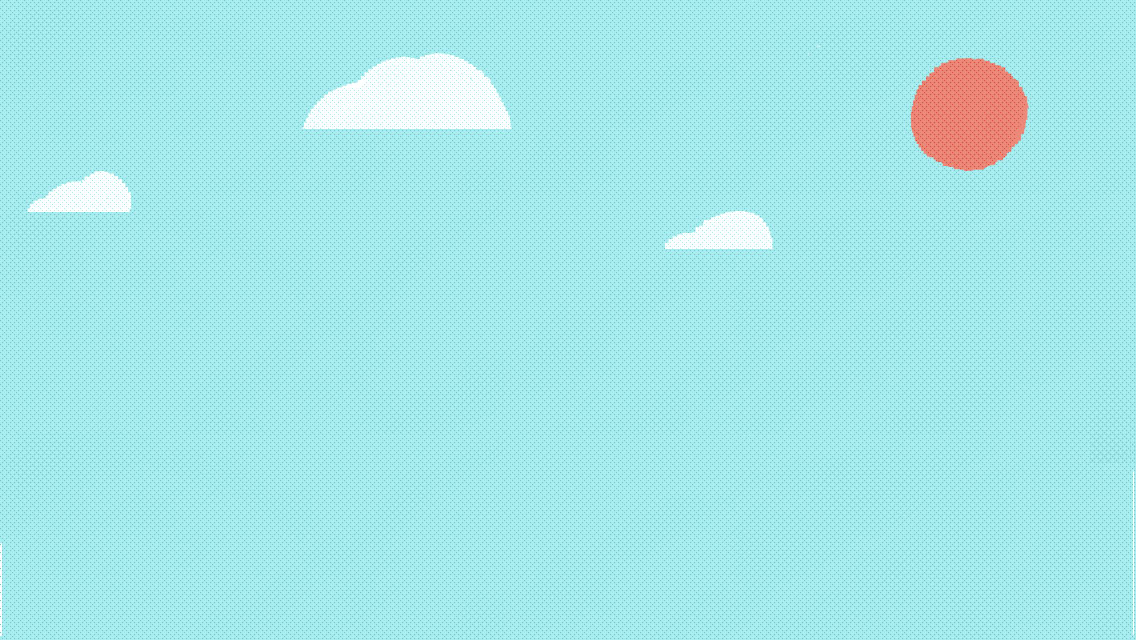
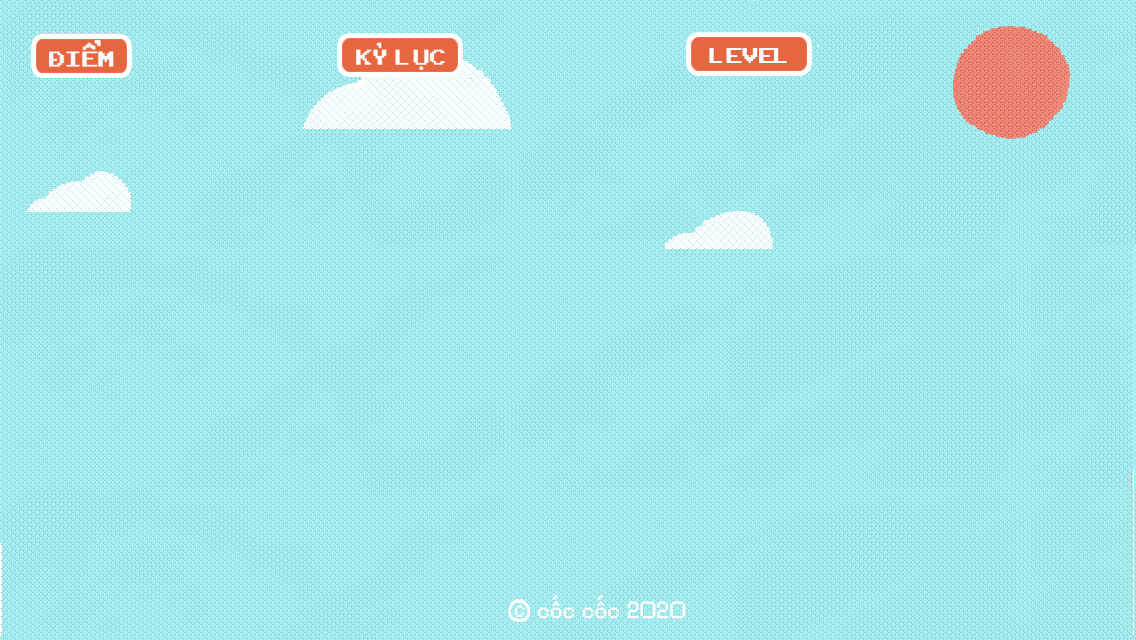
Update new version Coccoc

Changed region(s): [[0.0, 0.0, 1.0, 1.0]]

diff --git a/coccoc/js/main.min_87ead43b.js b/coccoc/js/main.min_87ead43b.js
@@ -1,0 +1,1 @@
+var __reflect=this&&this.__reflect||function(t,e,n){t.__class__=e,n?n.push(e):n=[e],t.__types__=t.__types__?n.concat(t.__types__):n},__extends=this&&this.__extends||function(t,e){function n(){this.constructor=t}for(var i in e)e.hasOwnProperty(i)&&(t[i]=e[i]);n.prototype=e.prototype,t.prototype=new n},__awaiter=this&&this.__awaiter||function(t,e,n,i){return new(n||(n=Promise))(function(s,o){function r(t){try{h(i.next(t))}catch(e){o(e)}}function a(t){try{h(i["throw"](t))}catch(e){o(e)}}function h(t){t.done?s(t.value):new n(function(e){e(t.value)}).then(r,a)}h((i=i.apply(t,e||[])).next())})},__generator=this&&this.__generator||function(t,e){function n(t){return function(e){return i([t,e])}}function i(n){if(s)throw new TypeError("Generator is already executing.");for(;h;)try{if(s=1,o&&(r=o[2&n[0]?"return":n[0]?"throw":"next"])&&!(r=r.call(o,n[1])).done)return r;switch(o=0,r&&(n=[0,r.value]),n[0]){case 0:case 1:r=n;break;case 4:return h.label++,{value:n[1],done:!1};case 5:h.label++,o=n[1],n=[0];continue;case 7:n=h.ops.pop(),h.trys.pop();continue;default:if(r=h.trys,!(r=r.length>0&&r[r.length-1])&&(6===n[0]||2===n[0])){h=0;continue}if(3===n[0]&&(!r||n[1]>r[0]&&n[1]<r[3])){h.label=n[1];break}if(6===n[0]&&h.label<r[1]){h.label=r[1],r=n;break}if(r&&h.label<r[2]){h.label=r[2],h.ops.push(n);break}r[2]&&h.ops.pop(),h.trys.pop();continue}n=e.call(t,h)}catch(i){n=[6,i],o=0}finally{s=r=0}if(5&n[0])throw n[1];return{value:n[0]?n[1]:void 0,done:!0}}var s,o,r,a,h={label:0,sent:function(){if(1&r[0])throw r[1];return r[1]},trys:[],ops:[]};return a={next:n(0),"throw":n(1),"return":n(2)},"function"==typeof Symbol&&(a[Symbol.iterator]=function(){return this}),a},LoadingUI=function(t){function e(){var e=t.call(this)||this;return e.createView(),e}return __extends(e,t),e.prototype.createView=function(){this.textField=new egret.TextField,this.addChild(this.textField),this.textField.y=300,this.textField.width=1136,this.textField.height=100,this.textField.textAlign="center"},e.prototype.onProgress=function(t,e){this.textField.text="Đang tải..."+t+"/"+e},e}(egret.Sprite);__reflect(LoadingUI.prototype,"LoadingUI",["RES.PromiseTaskReporter"]);var Main=function(t){function e(){var e=t.call(this)||this;return e.theObstaclesTimer=new egret.Timer(1e3),e.theObstacles=[],e.gameSpeed=5,e.jumpCount=0,e.sceneState=0,e.level=1,e._lastTime=egret.getTimer(),e.addEventListener(egret.Event.ADDED_TO_STAGE,e.onAddToStage,e),e}return __extends(e,t),e.prototype.onAddToStage=function(t){egret.lifecycle.addLifecycleListener(function(t){t.onUpdate=function(){}}),egret.lifecycle.onPause=function(){egret.ticker.pause()},egret.lifecycle.onResume=function(){egret.ticker.resume()},this.runGame()["catch"](function(t){console.log(t)})},e.prototype.runGame=function(){return __awaiter(this,void 0,void 0,function(){return __generator(this,function(t){switch(t.label){case 0:return[4,this.loadResource()];case 1:return t.sent(),this.gameTitle(),[2]}})})},e.prototype.loadResource=function(){return __awaiter(this,void 0,void 0,function(){var t,e;return __generator(this,function(n){switch(n.label){case 0:return n.trys.push([0,3,,4]),t=new LoadingUI,this.stage.addChild(t),[4,RES.loadConfig("resource/default.res.json","resource/")];case 1:return n.sent(),[4,RES.loadGroup("preload",0,t)];case 2:return n.sent(),this.stage.removeChild(t),[3,4];case 3:return e=n.sent(),console.error(e),[3,4];case 4:return[2]}})})},e.prototype.gameTitle=function(){var t=this,e=this.createBitmapByName("title_jpg");this.addChild(e),e.touchEnabled=!0,this.sceneState=0,this.kb=new KeyBoard,this.kb.addEventListener(KeyBoard.onkeydown,this.onkeydown,this),e.addEventListener(egret.TouchEvent.TOUCH_TAP,function(){t.removeChild(e);var n=document.documentElement,i=n.requestFullscreen||n.webkitRequestFullScreen||n.mozRequestFullscreen||n.msRequestFullscreen;i&&i.call(n),t.touchEnabled=!1,t.hiscore=200,parseInt(egret.localStorage.getItem("hiscore"))>200&&(t.hiscore=parseInt(egret.localStorage.getItem("hiscore"))),t.createGameScene()},this)},e.prototype.onkeydown=function(t){if(this.kb.isContain(t.data,KeyBoard.SPACE))switch(console.log("Space was hit"),this.sceneState){case 0:this.removeChildren(),this.hiscore=200,parseInt(egret.localStorage.getItem("hiscore"))>200&&(this.hiscore=parseInt(egret.localStorage.getItem("hiscore"))),this.createGameScene();break;case 1:this.touchHandler();break;case 2:this.replay()}},e.prototype.createGameScene=function(){this.gameSpeed=6,this.jumpCount=0,this.score=0,this.sceneState=1,this.level=1,this.bgSound=new SoundBase("stage1-4_mp3"),this.bgSound.setLoop(0),this.bgSound.play(),this.bgSound.setVolume(40);var t=this.createBitmapByName("bg_png");this.addChild(t),this.bg=new circus.BgMap,this.addChild(this.bg),this.bg.start();var e=this.createBitmapByName("logo_png");e.x=(this.stage.stageWidth-e.width)/2,e.y=600,this.addChild(e),this.lion=new circus.lion,this.addChild(this.lion),this.lion.x=200,this.lion.y=345,this.lion.run(),this.touchEnabled=!0,this.addEventListener(egret.TouchEvent.TOUCH_TAP,this.touchHandler,this),this.addEventListener(egret.Event.ENTER_FRAME,this.gameViewUpdate,this),this.scoreText=new egret.BitmapText,this.scoreText.font=RES.getRes("number_fnt"),this.addChild(this.scoreText),this.scoreText.x=145,this.levelText=new egret.BitmapText,this.levelText.font=RES.getRes("number_fnt"),this.addChild(this.levelText),this.levelText.x=820,this.hiscoreText=new egret.BitmapText,this.hiscoreText.font=RES.getRes("number_fnt"),this.addChild(this.hiscoreText),this.hiscoreText.x=475,this.levelText.y=this.scoreText.y=this.hiscoreText.y=50,this.hiscoreText.text=this.hiscore.toString()},e.prototype.createtheObstacle=function(){var t=new circus.obstacle;this.theObstacles.length>0?t.x=this.theObstacles[this.theObstacles.length-1].x+t.width+300*Math.random()+300+10*this.gameSpeed:t.x=this.stage.stageWidth+t.width+300*Math.random(),t.y=350,this.addChildAt(t,this.numChildren-1),this.theObstacles.push(t)},e.prototype.gameViewUpdate=function(){var t=0,e=0,n=egret.getTimer(),i=1e3/(n-this._lastTime);this._lastTime=n;var s=60/i;this.score+=1,this.score>9?this.scoreText.text=this.score.toString():this.scoreText.text="0"+this.score.toString(),this.score%199==0&&(this.gameSpeed<12&&(this.gameSpeed+=1),this.level+=1),this.level>9?this.levelText.text=this.level.toString():this.levelText.text="0"+this.level.toString();var o,r=this.theObstacles.length;for(t=0;r>t;t++)o=this.theObstacles[t],o.x<-o.width?(this.removeChild(o),this.theObstacles.splice(t,1),t--,r--):e+=1,1==this.lion.status()?o.x-=(this.gameSpeed+1)*s:o.x-=this.gameSpeed*s;4>e&&this.createtheObstacle(),this.score>=this.hiscore&&(this.hiscore=this.score,this.hiscoreText.text=this.hiscore.toString()),this.gameHitTest()},e.prototype.gameHitTest=function(){var t,e,n=this.theObstacles.length;for(t=0;n>t;t++)if(e=this.theObstacles[t],circus.GameUtil.hitTest(this.lion,e)){var i=new SoundBase("hit_mp3");i.play(),this.gameOver()}},e.prototype.gameOver=function(){var t=this;this.sceneState=3;var e,n,i=this.theObstacles.length;for(e=0;i>e;e++)n=this.theObstacles[e],n.stop();this.bg.pause(),this.lion.stop(),egret.localStorage.setItem("hiscore",this.hiscore.toString());var s=this.createBitmapByName("toang_png");this.addChild(s),s.x=(this.stage.stageWidth-s.width)/2,s.y=190,this.removeEventListener(egret.Event.ENTER_FRAME,this.gameViewUpdate,this),this.removeEventListener(egret.TouchEvent.TOUCH_TAP,this.touchHandler,this),egret.Tween.removeAllTweens(),this.bgSound.stop();var o=new SoundBase("failure_mp3");o.play(),this.touchEnabled=!1;var r=this.createBitmapByName("start_btn_png");egret.Tween.get(r).wait(3e3).call(function(){t.touchEnabled=!0,t.addChild(r),t.sceneState=2}),r.x=(this.stage.stageWidth-r.width)/2,r.y=370,this.addEventListener(egret.TouchEvent.TOUCH_TAP,this.replay,this)},e.prototype.replay=function(){this.removeEventListener(egret.TouchEvent.TOUCH_TAP,this.replay,this);for(var t;this.theObstacles.length>0;)t=this.theObstacles.pop(),this.removeChild(t);this.removeChildren(),this.createGameScene()},e.prototype.touchHandler=function(){this.lion.jump(220,this.gameSpeed)},e.prototype.createBitmapByName=function(t){var e=new egret.Bitmap,n=RES.getRes(t);return e.texture=n,e},e}(egret.DisplayObjectContainer);__reflect(Main.prototype,"Main");var DebugPlatform=function(){function t(){}return t.prototype.getUserInfo=function(){return __awaiter(this,void 0,void 0,function(){return __generator(this,function(t){return[2,{nickName:"username"}]})})},t.prototype.login=function(){return __awaiter(this,void 0,void 0,function(){return __generator(this,function(t){return[2]})})},t}();__reflect(DebugPlatform.prototype,"DebugPlatform",["Platform"]),window.platform||(window.platform=new DebugPlatform);var circus;!function(t){var e=function(e){function n(){var t=e.call(this)||this;return t.speed=5,t.addEventListener(egret.Event.ADDED_TO_STAGE,t.onAddToStage,t),t}return __extends(n,e),n.prototype.onAddToStage=function(e){this.removeEventListener(egret.Event.ADDED_TO_STAGE,this.onAddToStage,this),this.stageW=this.stage.stageWidth,this.stageH=this.stage.stageHeight;var n=RES.getRes("bg_run_png");this.textureWidth=n.textureWidth,this.rowCount=Math.ceil(this.stageW/this.textureWidth)+1,this.bmpArr=[];for(var i=0;i<this.rowCount;i++){var s=t.createBitmapByName("bg_run_png");s.x=this.textureWidth*i,console.log("Tọa độ X của đối tượng ",i," :",s.x),this.bmpArr.push(s),this.addChild(s)}},n.prototype.start=function(){this.removeEventListener(egret.Event.ENTER_FRAME,this.enterFrameHandler,this),this.addEventListener(egret.Event.ENTER_FRAME,this.enterFrameHandler,this)},n.prototype.enterFrameHandler=function(t){for(var e=0;e<this.rowCount;e++){var n=this.bmpArr[e];n.x-=this.speed,n.x<-n.width+n.anchorOffsetX*n.width&&(n.x+=2*n.width)}},n.prototype.pause=function(){this.removeEventListener(egret.Event.ENTER_FRAME,this.enterFrameHandler,this)},n}(egret.DisplayObjectContainer);t.BgMap=e,__reflect(e.prototype,"circus.BgMap")}(circus||(circus={}));var circus;!function(t){var e=function(t){function e(){var e=t.call(this)||this,n=RES.getRes("lion_mc_json"),i=RES.getRes("lion_tex_png");e._readyJump=!0;var s=new egret.MovieClipDataFactory(n,i);return e._lion=new egret.MovieClip(s.generateMovieClipData("circus")),e.addChild(e._lion),e}return __extends(e,t),e.prototype.run=function(){this._status=0,this._lion.gotoAndPlay("run",-1)},e.prototype.air_jump=function(){this._lion.gotoAndPlay("jump")},e.prototype.stop=function(){this._lion.gotoAndPlay("fail")},e.prototype.status=function(){return this._status},e.prototype.jump=function(t,e){var n=this,i=this.y;if(1==this._readyJump){this._readyJump=!1;var s=new SoundBase("jump_mp3");s.play(),egret.Tween.get(this).call(this.air_jump).to({y:i-t},200+t-10*e).call(function(){n._status=1}).wait(120).call(function(){n._status=0}).to({y:i},300+t-10*e).call(function(){n.run(),n._readyJump=!0})}},e}(egret.DisplayObjectContainer);t.lion=e,__reflect(e.prototype,"circus.lion")}(circus||(circus={}));var circus;!function(t){var e=function(t){function e(){var e=t.call(this)||this,n=RES.getRes("fire_mc_json"),i=RES.getRes("fire_tex_png"),s=Math.round(Math.random()),o=new egret.MovieClipDataFactory(n,i);return e._fire=new egret.MovieClip(o.generateMovieClipData("fire")),e.addChild(e._fire),0==s?(e._type=0,e._fire.gotoAndPlay("fire",-1)):(e._type=1,e._fire.gotoAndPlay("ninja",-1)),e}return __extends(e,t),e.prototype.stop=function(){this._fire.stop()},e.prototype.type=function(){return this._type},e}(egret.DisplayObjectContainer);t.obstacle=e,__reflect(e.prototype,"circus.obstacle")}(circus||(circus={}));var circus;!function(t){function e(t){var e=new egret.Bitmap,n=RES.getRes(t);return e.texture=n,e}var n=function(){function t(){}return t.hitTest=function(t,e){var n=t.getBounds(),i=e.getBounds();return n.x=t.x,n.y=t.y,i.x=e.x,n.height=n.height-20,i.y=e.y+i.height/2,i.width=i.width-30,n.intersects(i)?!0:!1},t}();t.GameUtil=n,__reflect(n.prototype,"circus.GameUtil"),t.createBitmapByName=e}(circus||(circus={}));var KeyBoard=function(t){function e(){var n=t.call(this)||this;return n.inputs=[],n.keyValue={27:e.Esc,112:e.F1,113:e.F2,114:e.F3,115:e.F4,116:e.F5,117:e.F6,118:e.F7,119:e.F8,120:e.F9,121:e.F10,122:e.F11,123:e.F12,42:e.PrintScreen,145:e.ScrollLock,19:e.PauseBreak,192:e.key_Points,49:e.key_1,50:e.key_2,51:e.key_3,52:e.key_4,53:e.key_5,54:e.key_6,55:e.key_7,56:e.key_8,57:e.key_9,48:e.key_0,189:e.key_Sub,187:e.key_Plus,8:e.Backspace,45:e.Insert,36:e.Home,33:e.PageUp,144:e.NumLock,111:e.Num_Slash,106:e.Num_Mul,109:e.Num_Sub,9:e.Tab,81:e.Q,87:e.W,69:e.E,82:e.R,84:e.T,89:e.Y,85:e.U,73:e.I,79:e.O,80:e.P,219:e.brace1,221:e.brace2,13:e.CnterEnter,46:e.Delete,35:e.End,34:e.PageDown,103:e.Num_7,104:e.Num_8,105:e.Num_9,107:e.Num_Plus,20:e.CapsLock,65:e.A,83:e.S,68:e.D,70:e.F,71:e.G,72:e.H,74:e.J,75:e.K,76:e.L,186:e.semicolon,222:e.quotes,220:e.bar,100:e.Num_4,101:e.Num_5,102:e.Num_6,16:e.key_Shift,90:e.Z,88:e.X,67:e.C,86:e.V,66:e.B,78:e.N,77:e.M,188:e.key_Semicolon,190:e.key_Dot,191:e.question,38:e.UpArrow,97:e.Num_1,98:e.Num_2,99:e.Num_3,17:e.left_Ctrl,91:e.Left_Win,18:e.key_Alt,32:e.SPACE,92:e.RIGHT_WIN,93:e.NoteSign,37:e.keyArrow,40:e.DownArrow,39:e.RightArrow,96:e.Num_0,110:e.Num_dot},n.init(),n}return __extends(e,t),e.prototype.init=function(){var t=this;document.onkeydown=function(n){var i=n||window.event||arguments.callee.caller.arguments[0];t.handlekeydown(i),t.inputs.length>0&&t.dispatchEventWith(e.onkeydown,!0,t.inputs,!0)},document.onkeyup=function(n){var i=n||window.event||arguments.callee.caller.arguments[0];t.handlekeyup(i),t.inputs.length>0&&t.dispatchEventWith(e.onkeyup,!0,t.inputs,!0)},document.onmousedown=function(e){t.inputs=[]}},e.prototype.handlekeydown=function(t){for(var e in this.keyValue)parseInt(e)==t.keyCode&&this.checkInput(this.keyValue[e])},e.prototype.handlekeyup=function(t){for(var e in this.keyValue)parseInt(e)==t.keyCode&&this.removeByKey(this.keyValue[e])},e.prototype.checkInput=function(t){for(var e=!1,n=0;n<this.inputs.length;n++)this.inputs[n]==t&&(e=!0);e||this.inputs.push(t)},e.prototype.removeByKey=function(t){for(var e=0;e<this.inputs.length;e++)this.inputs[e]==t&&this.inputs.splice(e,1)},e.prototype.isContain=function(t,e){for(var n=!1,i=0;i<t.length;i++)t[i]==e&&(n=!0);return n},e.onkeydown="KeyBoardonkeydown",e.onkeyup="KeyBoardonkeyup",e.NumLock="NumLock",e.Num_Slash="num_/",e.Num_Mul="num_*",e.Num_Sub="num_-",e.Num_7="num_7",e.Num_8="num_8",e.Num_9="num_9",e.Num_Plus="num_+",e.Num_4="num_4",e.Num_5="num_5",e.Num_6="num_6",e.Num_1="num_1",e.Num_2="num_2",e.Num_3="num_3",e.Num_Enter="num_Enter",e.Num_0="num_0",e.Num_dot="num_.",e.Esc="Esc",e.F1="F1",e.F2="F2",e.F3="F3",e.F4="F4",e.F5="F5",e.F6="F6",e.F7="F7",e.F8="F8",e.F9="F9",e.F10="F10",e.F11="F11",e.F12="F12",e.PrintScreen="PrintScreen",e.ScrollLock="ScrollLock",e.PauseBreak="PauseBreak",e.key_Points="`",e.key_1="1",e.key_2="2",e.key_3="3",e.key_4="4",e.key_5="5",e.key_6="6",e.key_7="7",e.key_8="8",e.key_9="9",e.key_0="0",e.key_Sub="-",e.key_Plus="=",e.Backspace="Backspace",e.Insert="Insert",e.Home="Home",e.PageUp="PageUp",e.Tab="Tab",e.Q="Q",e.W="W",e.E="E",e.R="R",e.T="T",e.Y="Y",e.U="U",e.I="I",e.O="O",e.P="P",e.brace1="[",e.brace2="]",e.CnterEnter="Enter",e.Delete="Delete",e.End="End",e.PageDown="PageDown",e.CapsLock="CapsLock",e.A="A",e.S="S",e.D="D",e.F="F",e.G="G",e.H="H",e.J="J",e.K="K",e.L="L",e.semicolon=";",e.quotes=",",e.bar="|",e.key_Shift="Shift",e.Z="Z",e.X="X",e.C="C",e.V="V",e.B="B",e.N="N",e.M="M",e.key_Semicolon=",",e.key_Dot=".",e.question="/",e.Right_Shift="Shift",e.UpArrow="up",e.left_Ctrl="Ctrl",e.Left_Win="left_win",e.key_Alt="Alt",e.SPACE="SPACE",e.RIGH_Alt="RIGH_Alt",e.RIGHT_WIN="right_win",e.NoteSign="NoteSign",e.RIGHT_Ctrl="Ctrl",e.keyArrow="left",e.DownArrow="down",e.RightArrow="right",e}(egret.EventDispatcher);__reflect(KeyBoard.prototype,"KeyBoard");var SoundBase=function(t){function e(e){var n=t.call(this)||this;return n._soundURL="start_sound",n._positon=0,n._loop=1,n._status=0,e&&(n._soundURL=e),n._sound=new egret.Sound,n._loadSound(),n}return __extends(e,t),e.prototype._loadSound=function(){RES.getRes(this._soundURL)?this._sound=RES.getRes(this._soundURL):(this._sound.once(egret.Event.COMPLETE,this.loadComplete,this),this._sound.once(egret.IOErrorEvent.IO_ERROR,this.onLoadErr,this),this._sound.load(this._soundURL))},e.prototype.loadComplete=function(t){this._status=3;var e="Load complete";egret.log(e),this._sound.removeEventListener(egret.IOErrorEvent.IO_ERROR,this.onLoadErr,this),this.dispatchEventWith(egret.Event.COMPLETE,!1,e)},e.prototype.onLoadErr=function(t){this._status=4;var e="Could not load sound at "+this._soundURL;egret.log(e),this._sound.removeEventListener(egret.Event.COMPLETE,this.loadComplete,this),this.dispatchEventWith(egret.IOErrorEvent.IO_ERROR,!1,e)},e.prototype.setUrl=function(t){this._soundURL=t,this._loadSound()},e.prototype.looped=function(t){console.log("looped"),this._soundChannel=null,this._positon=0,this._status=0;var e="looped";this._loop>=0?this.dispatchEventWith(egret.Event.SOUND_COMPLETE,!1,e):this.play()},e.prototype.getStatus=function(){return this._status},e.prototype.setVolume=function(t){console.log(this._status),1===this._status&&(this._soundChannel.volume=t/100)},e.prototype.showPosition=function(){return 1===this._status&&(this._positon=this._soundChannel.position),this._positon},e.prototype.play=function(){return 4===this._status?void this._loadSound():(this._status=1,this._soundChannel&&this._soundChannel.stop(),this._soundChannel=this._sound.play(this._positon,this._loop),this._soundChannel.once(egret.Event.SOUND_COMPLETE,this.looped,this),this._status)},e.prototype.setLoop=function(t){return void 0===t&&(t=1),this._loop=t,t},e.prototype.pause=function(){var t=this._status;return 1===t&&(this._positon=this._soundChannel.position,this._soundChannel.stop(),this._status=2),egret.log(this._positon),t},e.prototype.resume=function(){var t=this._status;return 2===t&&this.play(),egret.log(this._positon),t},e.prototype.stop=function(){this._status=0,this._positon=0,this._soundChannel.stop(),this._soundChannel=null},e}(egret.DisplayObjectContainer);__reflect(SoundBase.prototype,"SoundBase");

diff --git a/coccoc/js/collision.min_bdf233bd.js b/coccoc/js/collision.min_bdf233bd.js
@@ -1,0 +1,4 @@
+var collision = {};(function(){collision.checkCollision=function(bitmap1,bitmap2,isPixel){var bitmap2CenterX=bitmap2.x+bitmap2.width/2,bitmap2CenterY=bitmap2.y+bitmap2.height/2,bitmap1CenterX=bitmap1.x+bitmap1.width/2,bitmap1CenterY=bitmap1.y+bitmap1.height/2;if((Math.abs(bitmap2CenterX-bitmap1CenterX)<=bitmap1.width/2+bitmap2.width/2)&&Math.abs(bitmap2CenterY-bitmap1CenterY)<=bitmap1.height/2+bitmap2.height/2){return isPixel?handleEgdeCollisions(getIntersectionRect(bitmap1,bitmap2)):true;}else{return false}
+function getIntersectionRect(bitmap1,bitmap2){var bitmap1Right=bitmap1.x+bitmap1.width,bitmap1Bottom=bitmap1.y+bitmap1.height,bitmap2Right=bitmap2.x+bitmap2.width,bitmap2Bottom=bitmap2.y+bitmap2.height;var rect3x=Math.max(bitmap1.x,bitmap2.x),rect3y=Math.max(bitmap1.y,bitmap2.y),rect3Right=Math.min(bitmap1Right,bitmap2Right),rect3Bottom=Math.min(bitmap1Bottom,bitmap2Bottom);return{x:rect3x,y:rect3y,width:rect3Right-rect3x,height:rect3Bottom-rect3y}}
+function handleEgdeCollisions(rect){var renderTextureA=new egret.RenderTexture(),renderTextureB=new egret.RenderTexture();renderTextureA.drawToTexture(bitmap1,new egret.Rectangle(rect.x-bitmap1.x,rect.y-bitmap1.y,rect.width,rect.height));renderTextureB.drawToTexture(bitmap2,new egret.Rectangle(rect.x-bitmap2.x,rect.y-bitmap2.y,rect.width,rect.height));var imgData1Data=renderTextureA.getPixels(0,0,rect.width,rect.height);var imgData2Data=renderTextureB.getPixels(0,0,rect.width,rect.height);for(var i=3,len=imgData1Data.length;i<len;i+=4){if(imgData1Data[i]>0&&imgData2Data[i]>0){return true}}
+return false}}}(collision));
